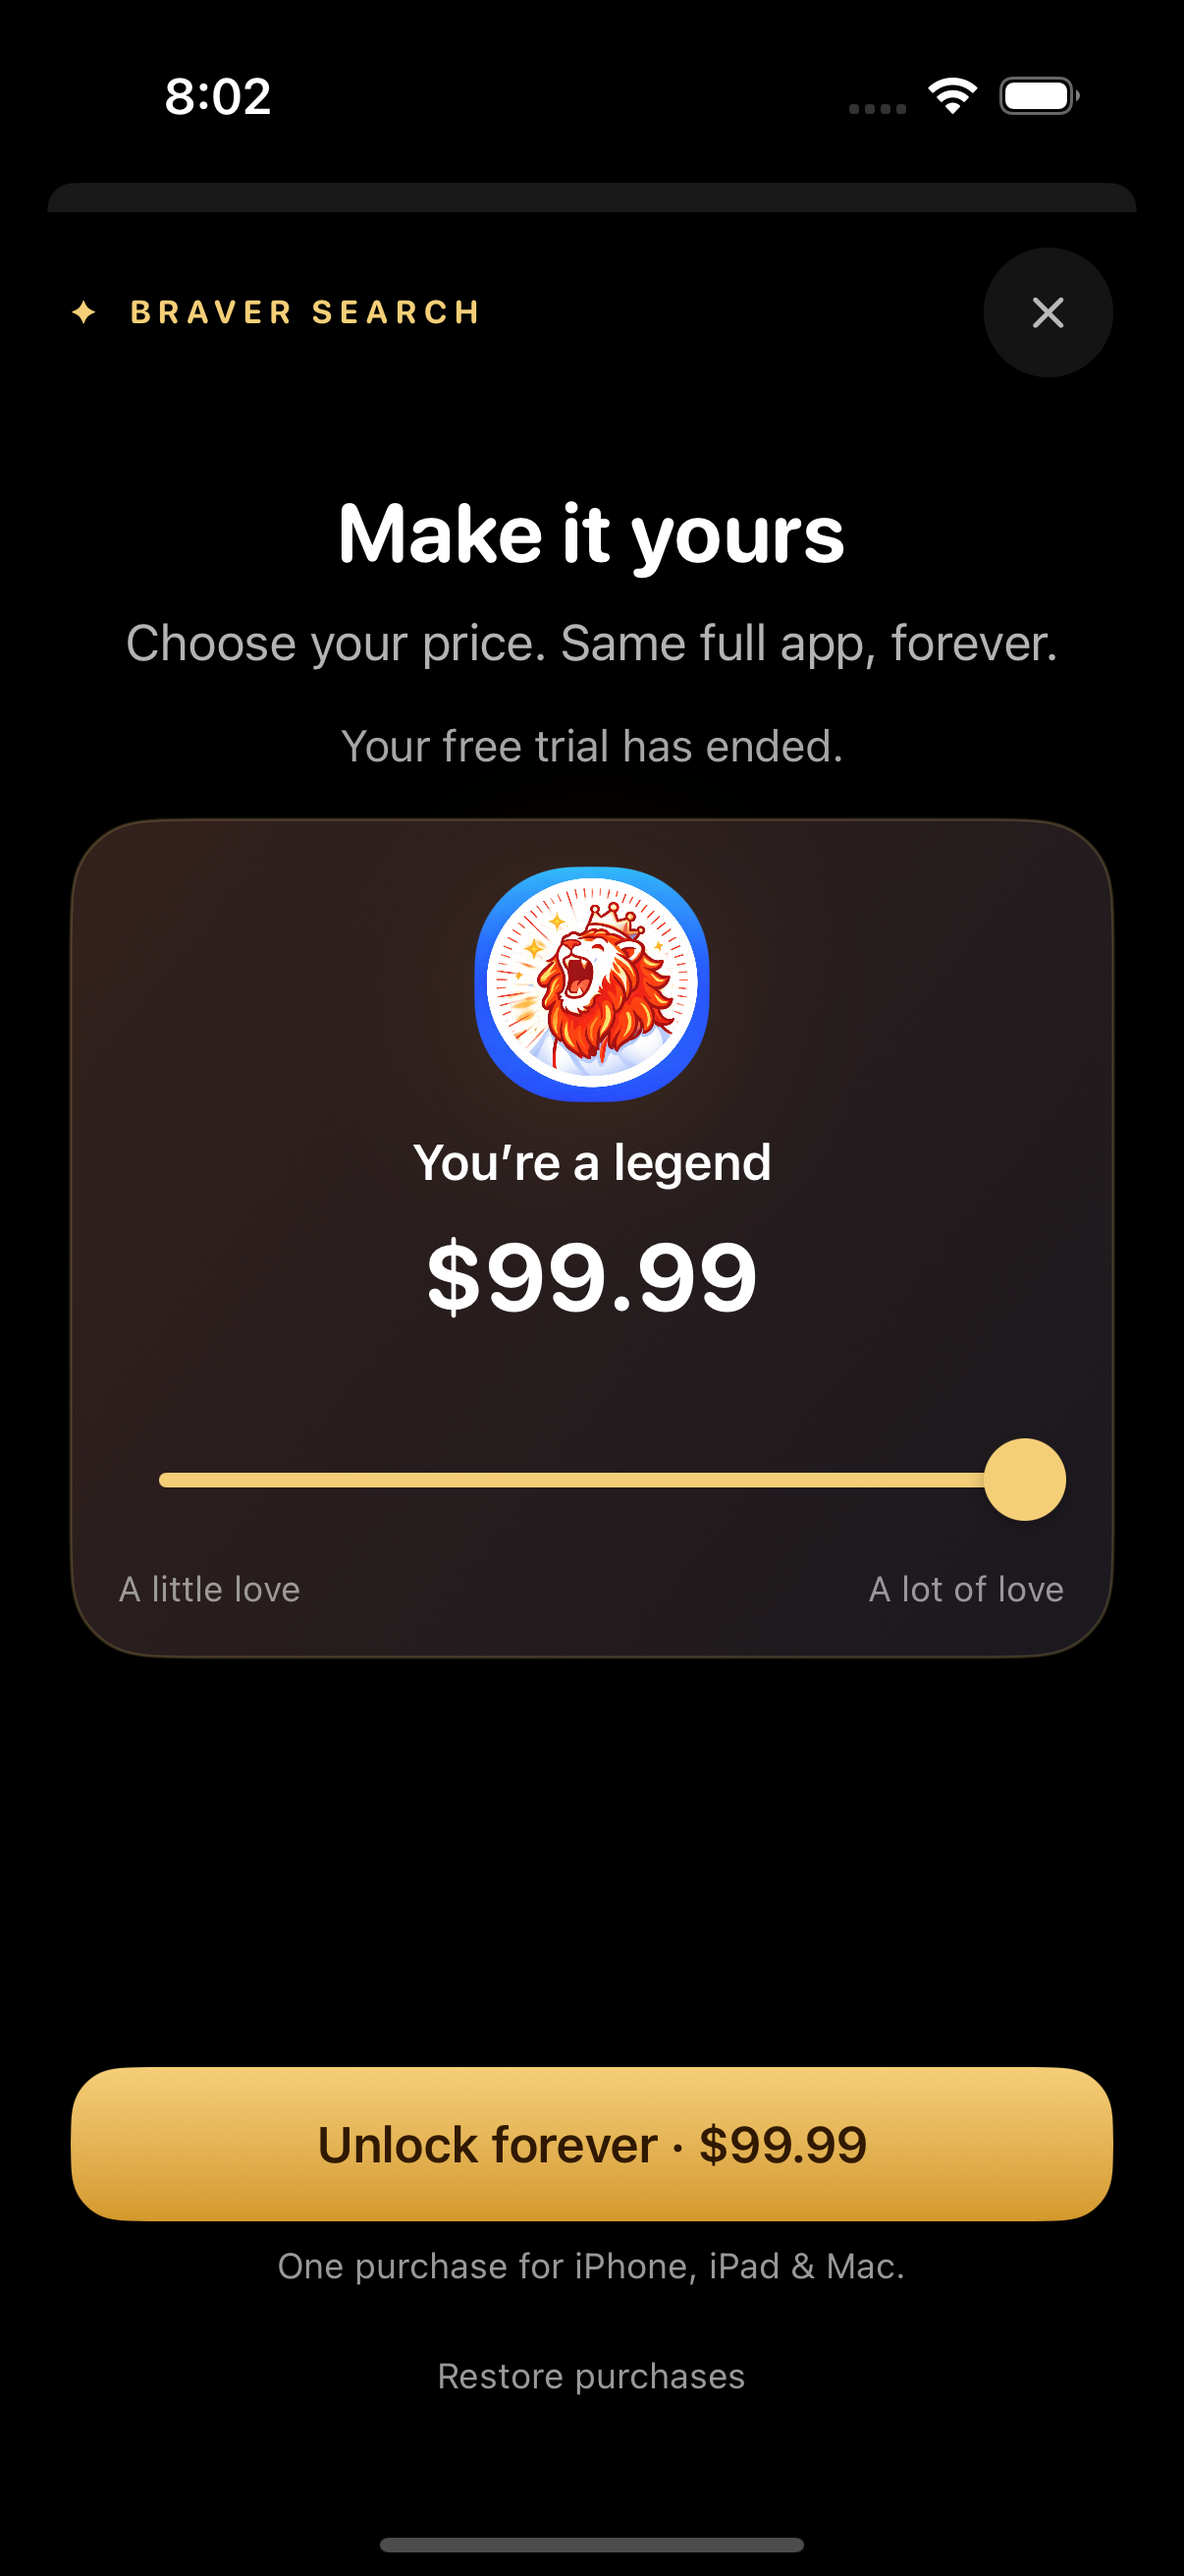
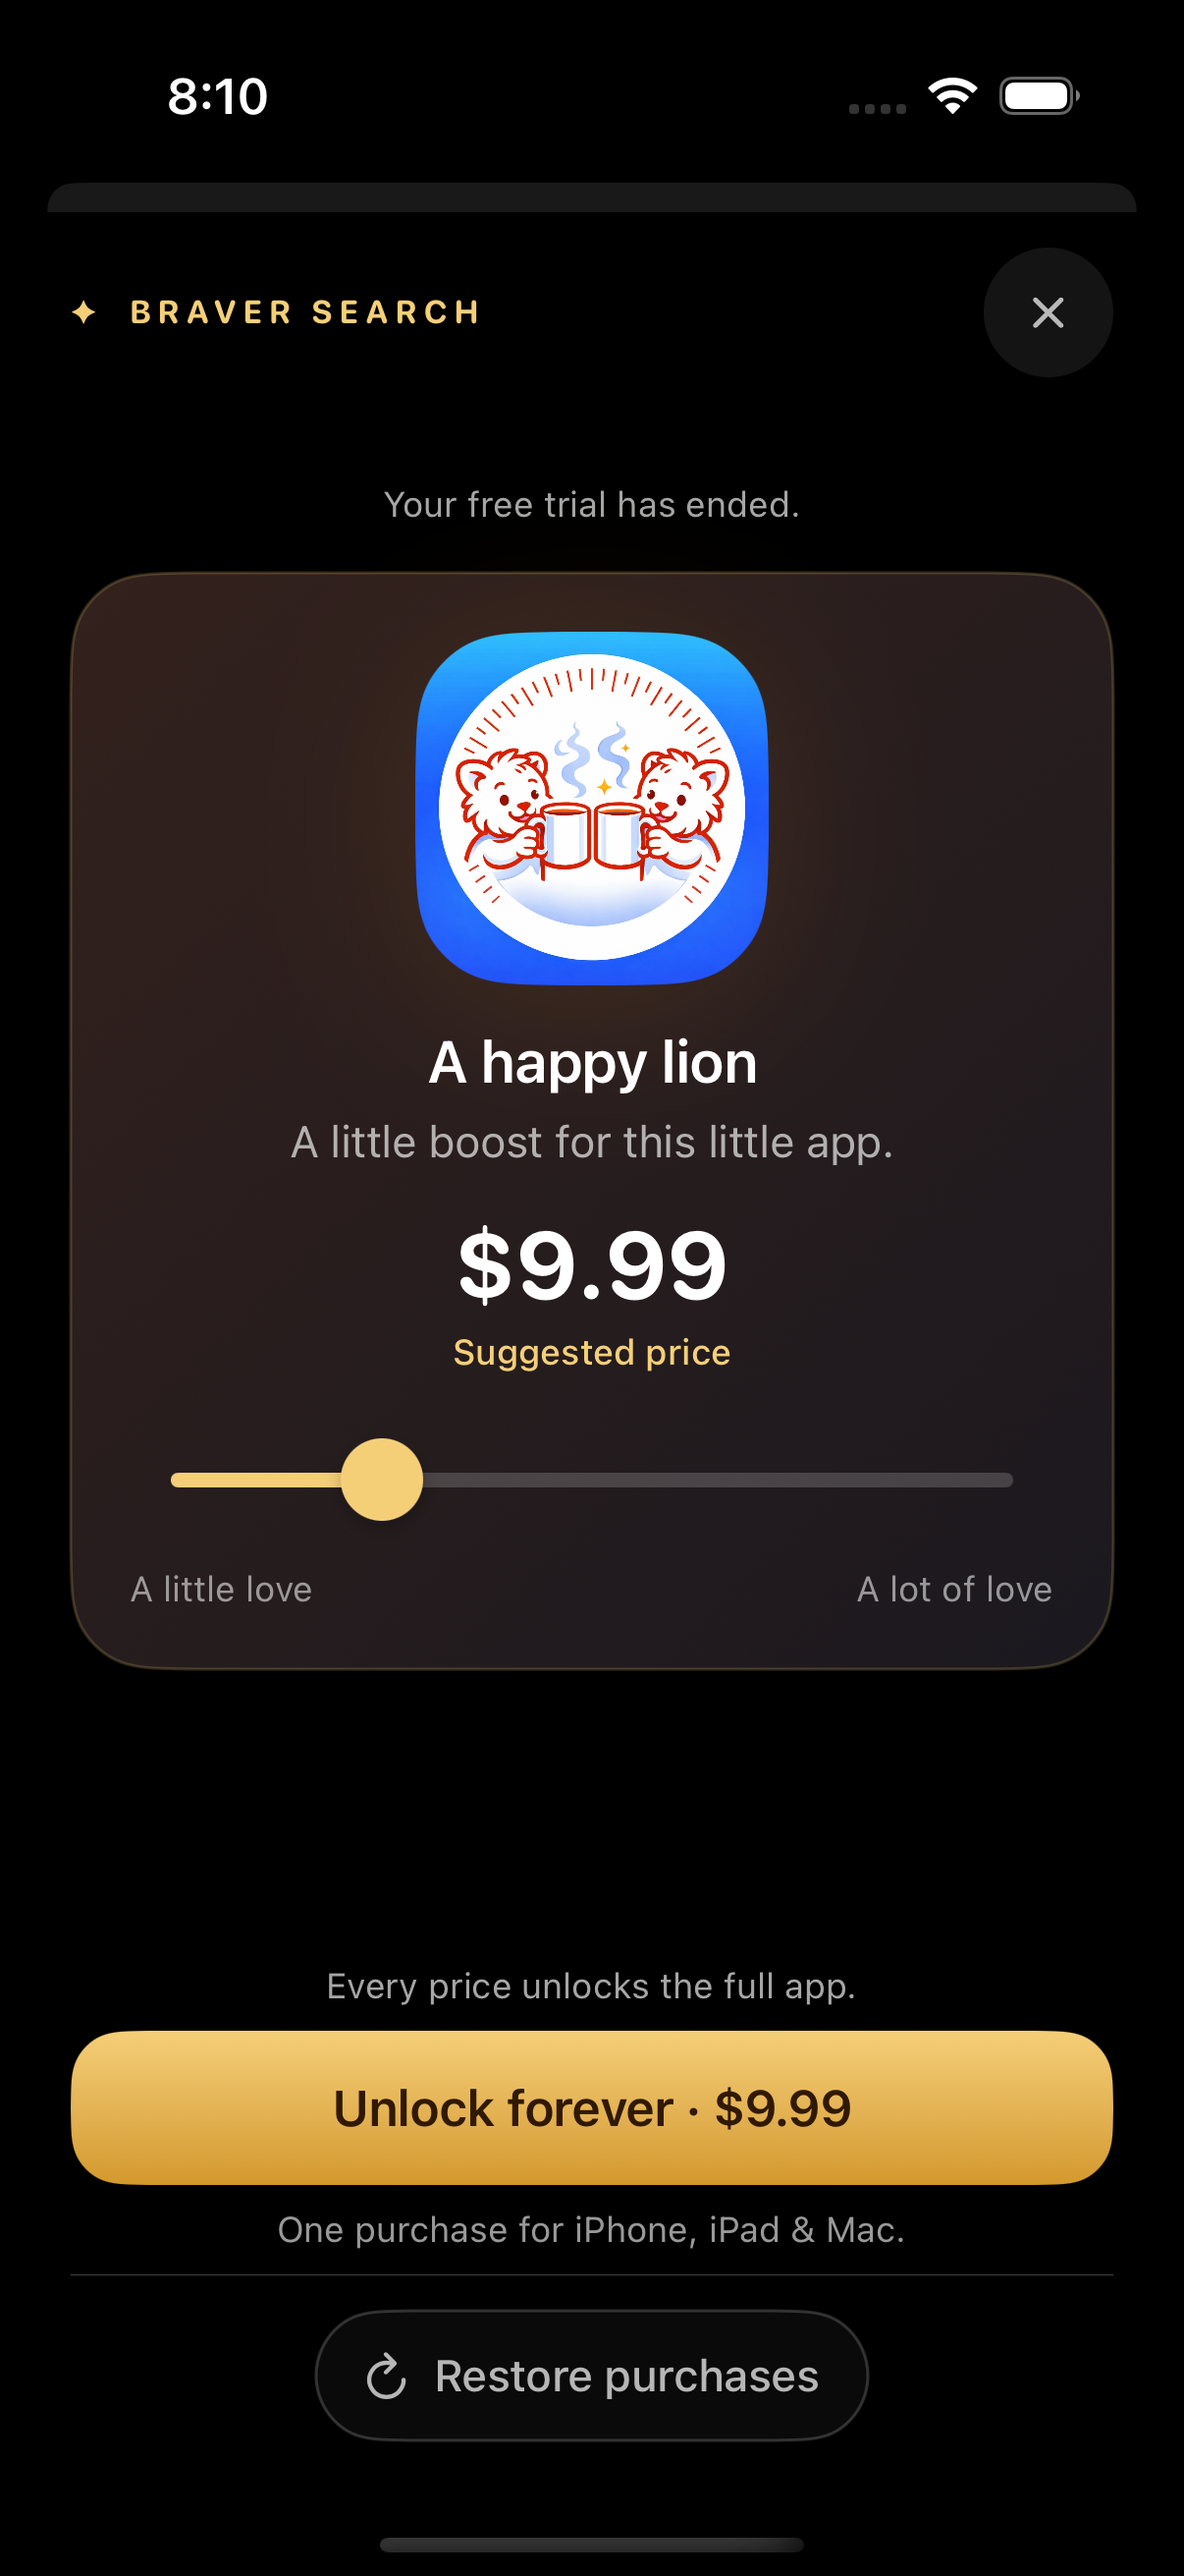
Clarify purchase action hierarchy and restore expressive pricing artwork

diff --git a/Braver Search/Shared (App)/LifetimeAccessView.swift b/Braver Search/Shared (App)/LifetimeAccessView.swift
@@ -44,14 +44,13 @@ struct LifetimeAccessView: View {
                         lion("TipCheers", size: 156)
                         heading("Try it in Safari", detail: "14 days of Safari search redirects.")
                         Label("No automatic charge", systemImage: "checkmark.circle")
-                            .font(.subheadline).foregroundStyle(AccessPalette.gold)
+                            .font(.subheadline).foregroundStyle(.white.opacity(0.7))
                     } else if page == .lifetime {
-                        heading("Make it yours", detail: "Choose your price. Same full app, forever.")
                         if access.state == .expired {
-                            Text("Your free trial has ended.").font(.subheadline).foregroundStyle(.white.opacity(0.65))
+                            Text("Your free trial has ended.").font(.caption).foregroundStyle(.white.opacity(0.65))
                         } else if let expires = access.expiresAt, access.state == .trial {
                             Text("Your trial is free until \(expires.formatted(date: .abbreviated, time: .omitted))")
-                                .font(.subheadline).foregroundStyle(AccessPalette.gold)
+                                .font(.caption).foregroundStyle(AccessPalette.gold)
                         }
                         pricePicker
                     } else {
@@ -127,11 +126,20 @@ struct LifetimeAccessView: View {
                 Text("Buy once to continue after the trial.")
                     .font(.caption).foregroundStyle(.white.opacity(0.6)).multilineTextAlignment(.center)
                     .fixedSize(horizontal: false, vertical: true)
-                Button("See lifetime prices →") { choseLifetime = true }
-                    .buttonStyle(.plain).foregroundStyle(AccessPalette.gold).frame(minHeight: 44)
+                Button { choseLifetime = true } label: {
+                    HStack(spacing: 6) {
+                        Text("See lifetime prices").underline()
+                        Image(systemName: "arrow.right").font(.caption)
+                    }
+                    .font(.subheadline.weight(.medium))
+                    .foregroundStyle(.white.opacity(0.85)).frame(minHeight: 44)
+                }
+                    .buttonStyle(.plain)
                     .disabled(busy).accessibilityIdentifier("see-lifetime-prices")
             } else if page == .lifetime {
                 availabilityMessage(for: option.id)
+                Text("Every price unlocks the full app.")
+                    .font(.caption).foregroundStyle(.white.opacity(0.65))
                 primaryButton("Unlock forever · \(price)", id: "lifetime-purchase", disabled: !store.isAvailable(option.id)) {
                     await store.purchase(id: option.id)
                 }
@@ -146,14 +154,28 @@ struct LifetimeAccessView: View {
                 primaryButton("Done", id: "access-done", disabled: false) { dismiss() }
             }
             if access.state != .unknown {
-                Button(store.isRestoring ? "Checking purchases…" : "Restore purchases") { Task { await store.restore() } }
-                    .buttonStyle(.plain).font(.caption).foregroundStyle(.white.opacity(0.6))
-                    .frame(minHeight: 44).disabled(busy)
+                Divider().overlay(.white.opacity(0.08)).padding(.bottom, 4)
+                Button { Task { await store.restore() } } label: {
+                    HStack(spacing: 8) {
+                        if store.isRestoring {
+                            ProgressView().tint(.white.opacity(0.7))
+                        } else {
+                            Image(systemName: "arrow.clockwise")
+                        }
+                        Text(store.isRestoring ? "Checking purchases…" : "Restore purchases")
+                    }
+                    .font(.subheadline.weight(.medium)).foregroundStyle(.white.opacity(0.7))
+                    .padding(.horizontal, 16).frame(minHeight: 44)
+                    .background(.white.opacity(0.04), in: Capsule())
+                    .overlay(Capsule().stroke(.white.opacity(0.18), lineWidth: 1))
+                }
+                .buttonStyle(.plain).disabled(busy).opacity(busy ? 0.6 : 1)
+                .accessibilityIdentifier("restore-purchases")
             }
             #if DEBUG
             if let test = AccessStore.localTest() {
                 Text("Sandbox · \(test.cohort.rawValue) user" + (test.elapsedDays == 0 ? "" : " · +\(test.elapsedDays) days"))
-                    .font(.caption2).foregroundStyle(AccessPalette.gold)
+                    .font(.caption2).foregroundStyle(.white.opacity(0.5))
             }
             #endif
         }
@@ -162,17 +184,20 @@ struct LifetimeAccessView: View {
     }
 
     private var pricePicker: some View {
-        VStack(spacing: 10) {
-            lion(option.assetName, size: 80)
+        VStack(spacing: 14) {
+            lion(option.assetName, size: 120)
                 .id(option.id).transition(.opacity)
                 .animation(reduceMotion ? nil : .easeInOut(duration: 0.18), value: index)
             // All tier labels participate in sizing, even with larger text settings.
             ZStack(alignment: .top) {
                 ForEach(MonetizationConfig.lifetimeOptions) { tier in
-                    Text(tier.displayName).font(.headline)
-                        .fixedSize(horizontal: false, vertical: true)
-                        .opacity(tier.id == option.id ? 1 : 0)
-                        .accessibilityHidden(tier.id != option.id)
+                    VStack(spacing: 6) {
+                        Text(tier.displayName).font(.title3.bold())
+                        Text(tier.description).font(.subheadline).foregroundStyle(.white.opacity(0.65))
+                            .fixedSize(horizontal: false, vertical: true)
+                    }
+                    .opacity(tier.id == option.id ? 1 : 0)
+                    .accessibilityHidden(tier.id != option.id)
                 }
             }.multilineTextAlignment(.center)
             VStack(spacing: 3) {
@@ -199,7 +224,7 @@ struct LifetimeAccessView: View {
                 }.font(.caption).foregroundStyle(.white.opacity(0.55))
             }
         }
-        .padding(16).frame(maxWidth: .infinity)
+        .padding(20).frame(maxWidth: .infinity)
         .background(LinearGradient(colors: [Color(red: 0.20, green: 0.13, blue: 0.11), Color(red: 0.105, green: 0.095, blue: 0.12)], startPoint: .topLeading, endPoint: .bottomTrailing), in: RoundedRectangle(cornerRadius: 28))
         .overlay(RoundedRectangle(cornerRadius: 28).stroke(AccessPalette.gold.opacity(0.20), lineWidth: 1))
     }

diff --git a/docs/MONETIZATION-VERIFICATION.md b/docs/MONETIZATION-VERIFICATION.md
@@ -128,12 +128,17 @@ pending real event validation. See docs/LOCAL-PURCHASE-TESTING.md for the user w
 - The trial introduction explains Safari address-bar search redirection, states the
   duration once, and places "No automatic charge" above the action. A verified trial
   activation dismisses the offer; cancellation/pending approval does not grant access.
-- The lifetime picker uses smaller artwork and no tier descriptions. Tier titles
-  reserve consistent space, and the entire card no longer animates on each selection.
+- The lifetime page omits the large introductory heading to give its lion artwork
+  and playful tier descriptions more room. Tier text reserves consistent space,
+  and the entire card no longer animates on each selection.
   The iOS control uses a continuous drag without haptic calls; VoiceOver adjustments
   still select discrete prices. macOS retains its native slider.
 - The primary action stays outside the scrolling content. The sandbox cohort footer
   exists only in DEBUG local-test mode and has no production replacement.
+- Gold emphasizes the primary trial action. Reassurance is neutral, lifetime pricing
+  is an underlined secondary link, and a divider separates purchase restoration.
+- Restore purchases uses an outlined neutral secondary button with a restore icon,
+  a 44-point minimum target, and a progress indicator while checking with Apple.
 - Signed iPhone and Mac builds and a simulator build passed with Xcode 26.6. The
   device build was installed and launched on Brenden's iPhone for manual sandbox QA.
   Simulator images exercise visual fixtures, not actual purchases; physical haptic
